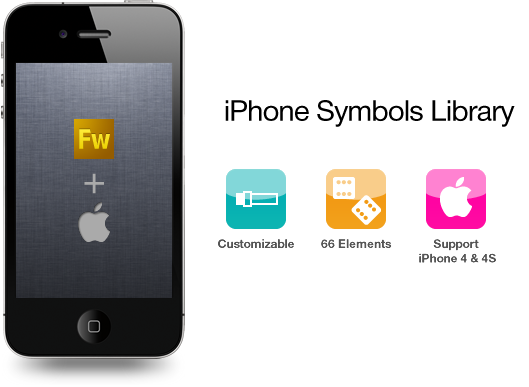
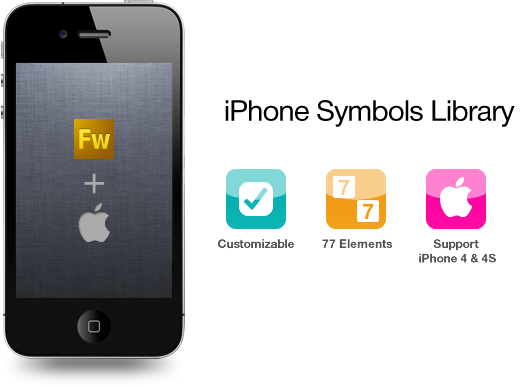
Signed-off-by: timur prokopiev <pojitonov@gmail.com>

Changed region(s): [[0.6352, 0.4651, 0.7259, 0.5891], [0.4234, 0.4651, 0.5444, 0.5581], [0.6049, 0.6202, 0.7561, 0.6512]]

diff --git a/index.html b/index.html
@@ -27,7 +27,7 @@
 			<strong>0.1.0</strong><br />Initial release.</p>
 			<h2>Package contents:</h2>
 			<p>
-			66 Rich Symbols<br />
+			77 Rich Symbols<br />
 			Support iPhone 4 & 4S
 			</p>
 
